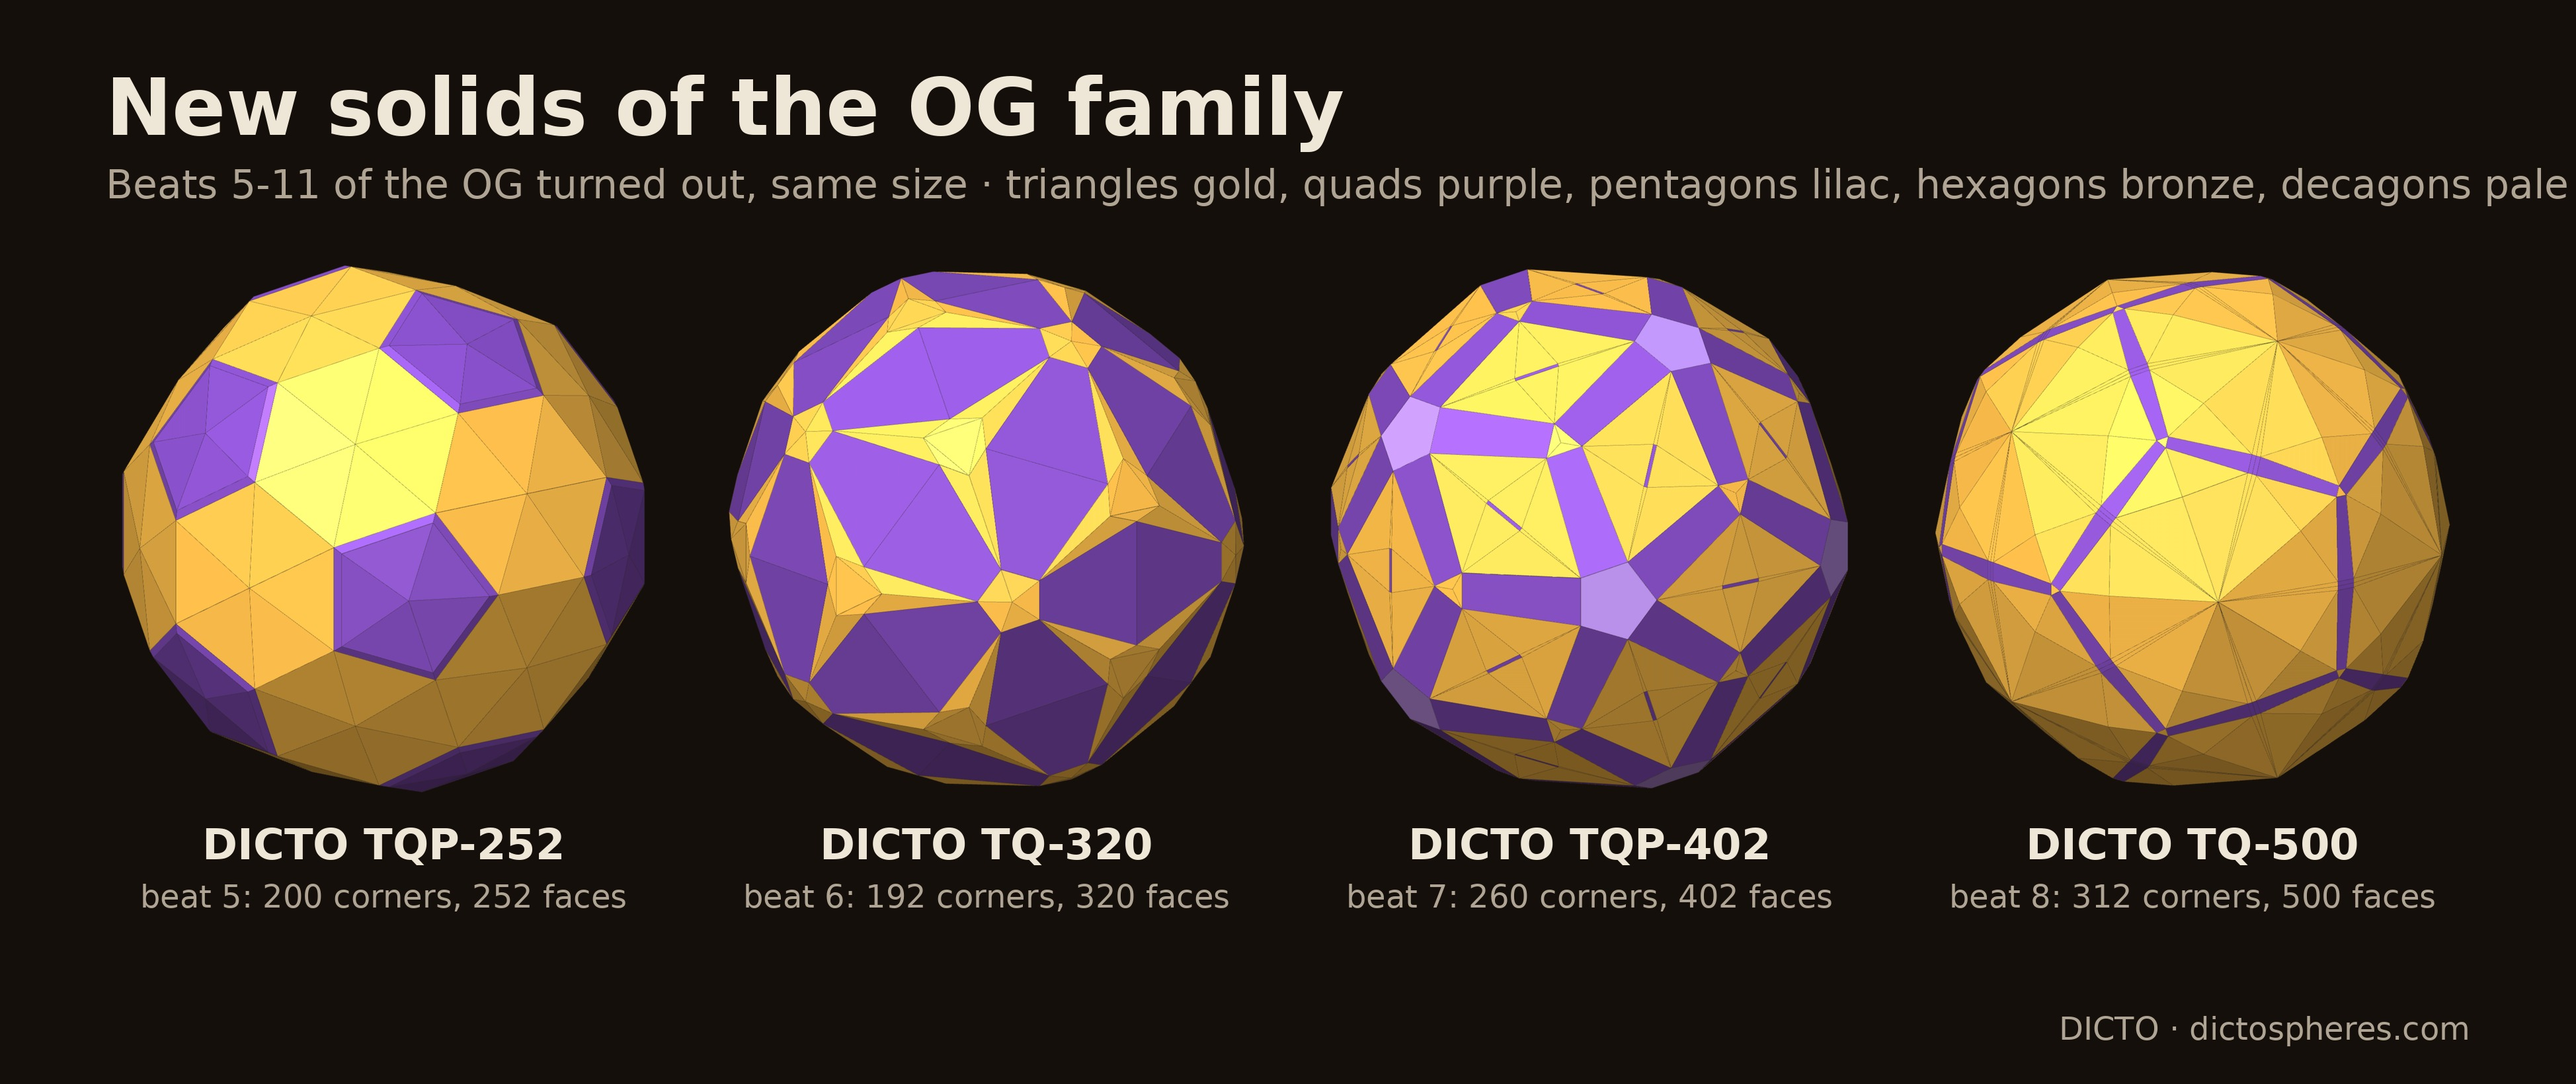
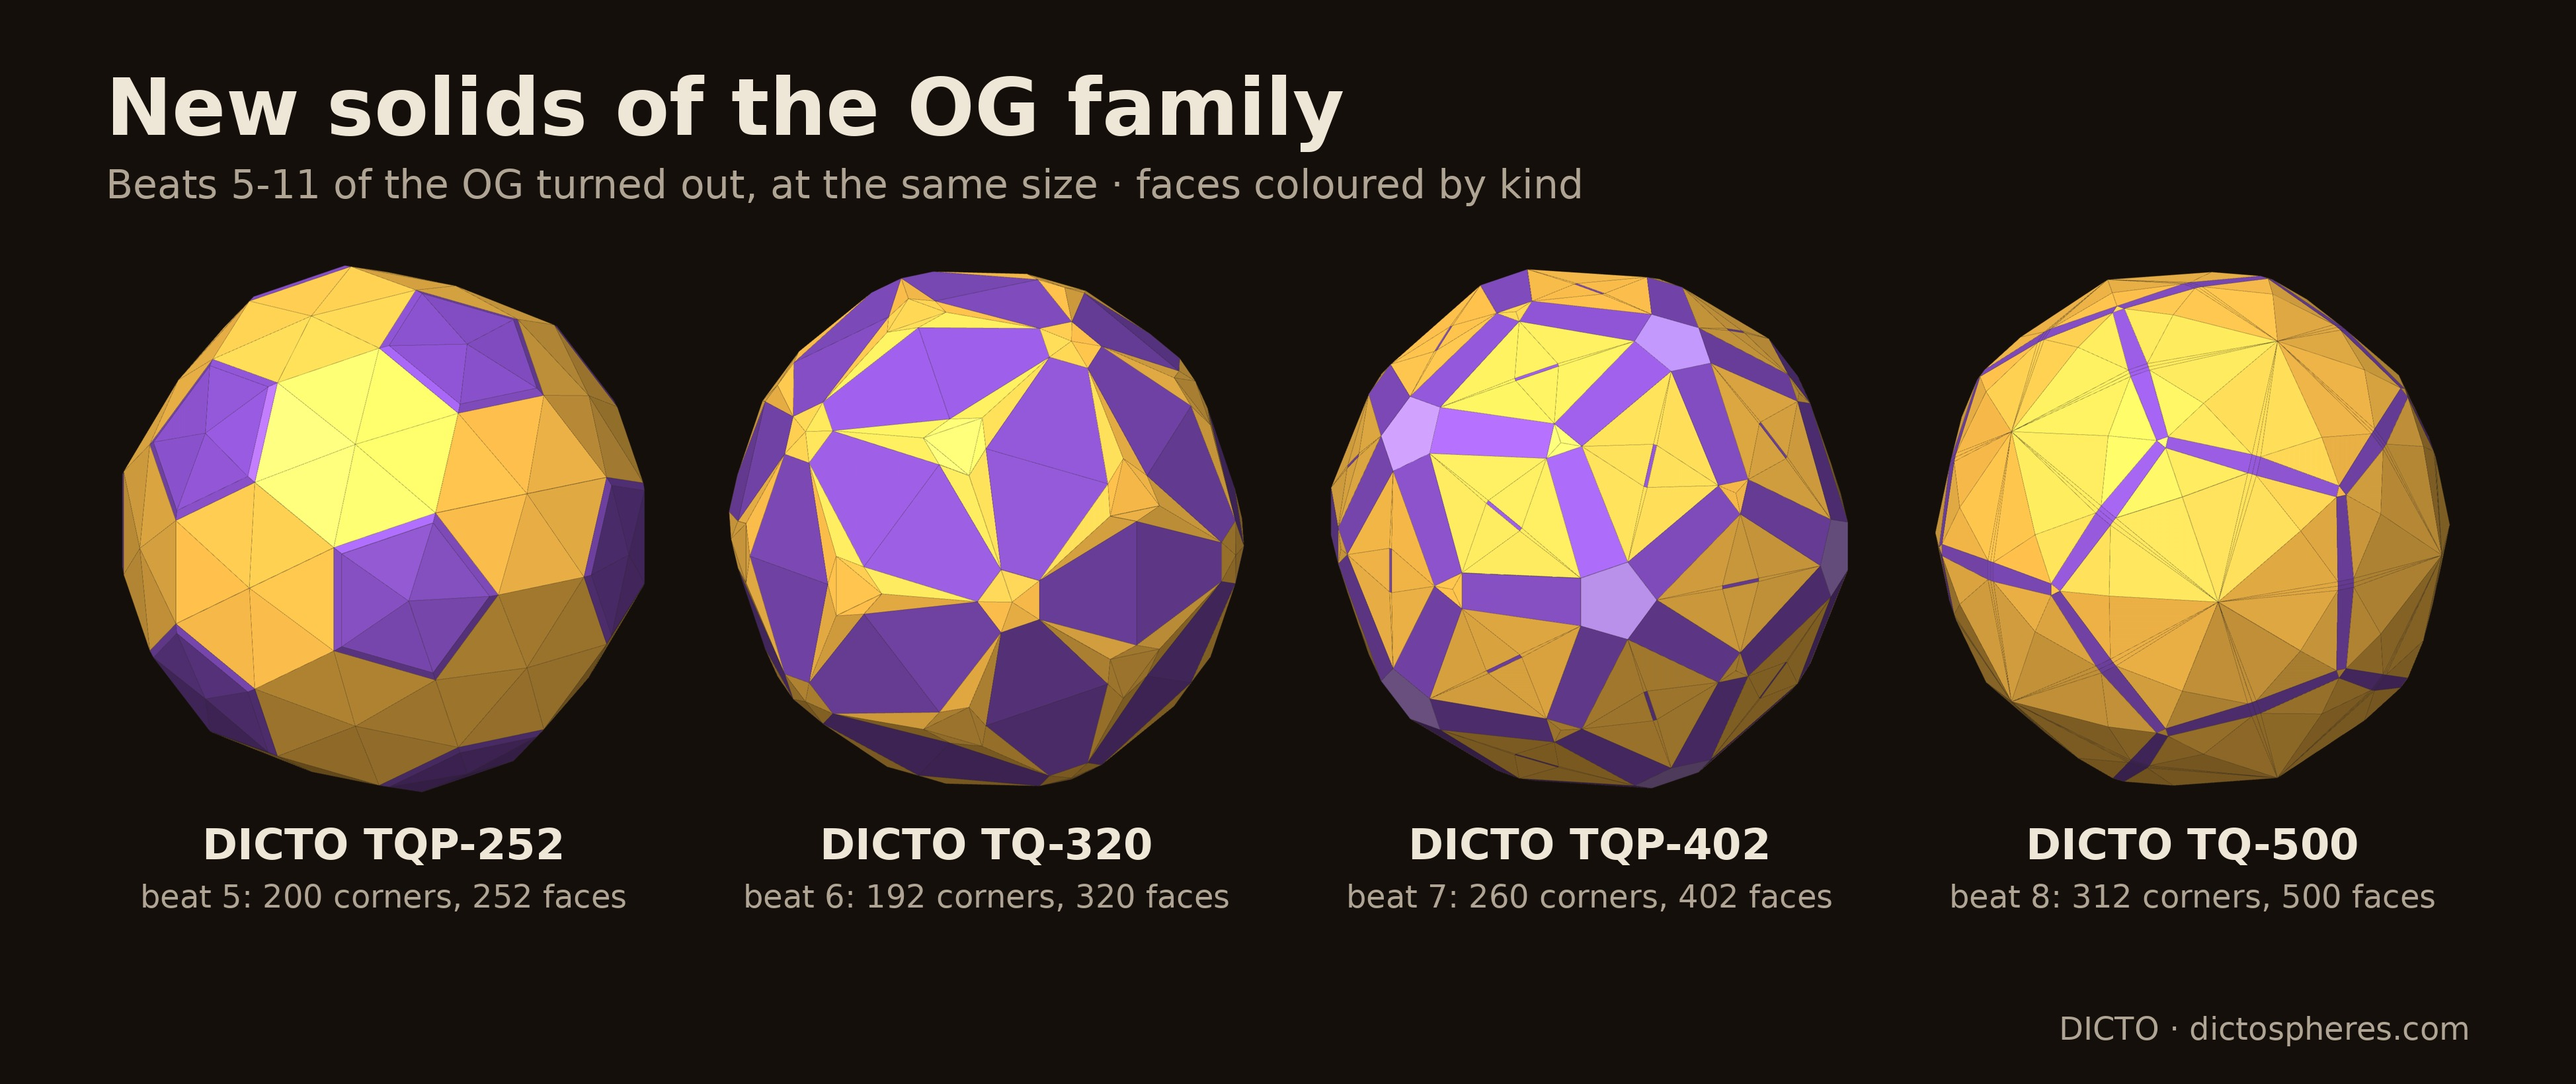
New-solids figure: shorter subtitle (fits the page)

Changed region(s): [[0.2795, 0.1555, 1.0, 0.1866]]

diff --git a/studies/2026-10-21-og-turned-out/new_solids_compose.py b/studies/2026-10-21-og-turned-out/new_solids_compose.py
@@ -21,5 +21,5 @@ def sheet(idx, cols, path, title=None, sub=None, cell=520, gap=36, names=None, s
     m = 'DICTO · dictospheres.com'; d.text((W - 80 * K - d.textlength(m, font=f(24 * K)), Hh - 56 * K), m, font=f(24 * K), fill=MUTE)
     im.save(os.path.join(OUT, path), quality=92); print(path, im.size)
 os.makedirs(OUT, exist_ok=True)
-sheet([0, 1, 2, 3], 4, 'new-solids-a.jpg', 'New solids of the OG family', 'Beats 5-11 of the OG turned out, same size · triangles gold, quads purple, pentagons lilac, hexagons bronze, decagons pale', cell=420)
+sheet([0, 1, 2, 3], 4, 'new-solids-a.jpg', 'New solids of the OG family', 'Beats 5-11 of the OG turned out, at the same size · faces coloured by kind', cell=420)
 sheet([4, 5, 6, 7], 4, 'new-solids-b.jpg', cell=420)
